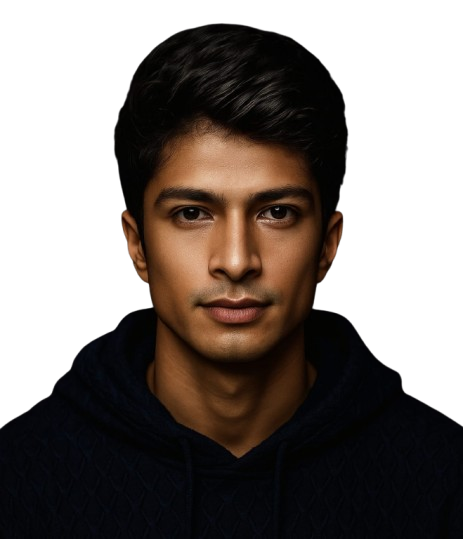
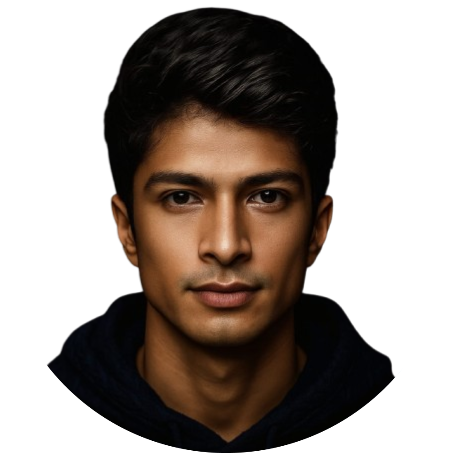
Updated 31-08-2025

diff --git a/src/styles/Skills.css b/src/styles/Skills.css
@@ -1,0 +1,260 @@
+#SkillContainer {
+    height: 600px;
+    width: 100%;
+    background-color: black;
+    display: flex;
+    justify-content: space-between;
+    align-items: center;
+}
+
+#InfoSkill {
+    background-color: black;
+    height: 100%;
+    width: 30%;
+    position: relative;
+}
+
+#InfoSkill h2 {
+    background-color: red;
+    display: inline-block;
+    font-size: 2.5em;
+    padding: 15px 30px;
+    border-radius: 20px;
+    width: 60%;
+    letter-spacing: 5px;
+    text-align: center;
+    position: absolute;
+    left: 15%;
+}
+
+#InfoSkill span:nth-child(1) {
+    background-color: red;
+    position: absolute;
+    display: inline-block;
+    height: 98%;
+    width: 5px;
+    left: 40%;
+}
+#InfoSkill span:nth-child(1) .dot {
+    background-color: red;
+    position: absolute;
+    display: inline-block;
+    height: 5%;
+    width: 615%;
+    border-radius: 50%;
+    left: -250%;
+    bottom: 0;
+}
+
+#InfoSkill .link {
+    background-color: white;
+    display: block;
+    height: 4vw;
+    width: 50%;
+    text-align: center;
+    text-decoration: none;
+    color: black;
+    align-content: center;
+    position: absolute;
+    font-weight: bold;
+    letter-spacing: 3px;
+    font-size: 1.3em;
+    border-radius: 0 40px 40px 0;
+    z-index: 2;
+    background-color: red;
+}
+
+#InfoSkill .link:nth-child(3) {
+    top: 30%;
+    left: 40%;
+}
+#InfoSkill .link:nth-child(4) {
+    top: 50%;
+    left: 40%;
+}
+#InfoSkill .link:nth-child(5) {
+    top: 70%;
+    left: 40%;
+}
+
+#InfoSkill .link_1:hover {
+    background: linear-gradient(to left, cyan, cyan, cyan, transparent);
+    color: black;
+}
+#InfoSkill .link_2:hover {
+    background: linear-gradient(to left, blue, blue, blue, transparent);
+    color: white;
+}
+#InfoSkill .link_3:hover {
+    background: linear-gradient(to left, purple, purple, purple, transparent);
+    color: white;
+}
+
+
+#InfoSkill span:nth-child(6), 
+#InfoSkill span:nth-child(7),
+#InfoSkill span:nth-child(8) {
+    position: absolute;
+    display: inline-block;
+    height: 7.5vw;
+    width: 25%;
+    left: 70%;
+    background-color: transparent;
+    border: 4px solid red;
+    border-radius: 50%;
+    z-index: 1;
+    animation: RotateAvngers 5s linear infinite;
+    animation-play-state: paused;
+}
+
+#InfoSkill .link_1:hover ~ span:nth-child(6), 
+#InfoSkill .link_2:hover ~ span:nth-child(7),
+#InfoSkill .link_3:hover ~ span:nth-child(8) {
+    animation: RotateAvngers 5s linear infinite;
+    animation-play-state: running;
+}
+
+@keyframes RotateAvngers {
+    0% {
+        transform: rotate(0);
+    }
+    100% {
+        transform: rotate(360deg);
+    }
+}
+
+#InfoSkill span:nth-child(6) {
+    border-color: cyan;
+}
+#InfoSkill span:nth-child(7) {
+    border-color: blue;
+}
+#InfoSkill span:nth-child(8) {
+    border-color: purple;
+}
+
+#InfoSkill span:nth-child(6) .dot,
+#InfoSkill span:nth-child(7) .dot,
+#InfoSkill span:nth-child(8) .dot {
+    position: absolute;
+    height: 25%;
+    width: 25%;
+    top: 40%;
+    left: -15%;
+    border-radius: 50%;
+    transform: rotate(90deg);
+}
+
+#InfoSkill span:nth-child(6) .dot {
+    background-color: black;
+    border: 2px solid cyan;
+    border-top: none;
+    border-bottom: none;
+}
+#InfoSkill span:nth-child(7) .dot {
+    background-color: black;
+    border: 2px solid blue;
+    border-top: none;
+    border-bottom: none;
+}
+#InfoSkill span:nth-child(8) .dot {
+    background-color: black;
+    border: 2px solid purple;
+    border-top: none;
+    border-bottom: none;
+}
+
+#InfoSkill span:nth-child(6) {
+    top: 25.5%;
+}
+#InfoSkill span:nth-child(7) {
+    top: 45.5%;
+}
+#InfoSkill span:nth-child(8) {
+    top: 65.5%;
+}
+
+
+
+#DisplayInfoSkill {
+    background-color: green;
+    height: 95%;
+    width: 66%;
+    margin-right: 2%;
+    border-radius: 10px;
+}
+
+
+
+@media (max-width: 768px) {
+    #SkillContainer {
+        height: 800px;
+        flex-direction: column;
+    }
+
+    #InfoSkill {
+        width: 95%;
+        height: 200px;
+        display: flex;
+        justify-content: space-evenly;
+        align-items: flex-end;
+    }
+
+    #InfoSkill h2 {
+        all: initial;
+        position: absolute;
+        color: black;
+        background: linear-gradient(to right, transparent, red, transparent);
+        border-radius: 10px;
+        padding: 10px 5px;
+        font-weight: bold;
+        letter-spacing: 8px;
+        top: 5%;
+        width: 100%;
+        text-align: center;
+        font-size: 2em;
+    }
+
+    #InfoSkill .link {
+        all: initial;
+        background-color: red;
+        height: 40px;
+        width: 100px;
+        font-size: 0.8em;
+        text-align: center;
+        font-weight: bold;
+        border-radius: 10px;
+        align-content: center;
+        letter-spacing: 1px;
+        margin-bottom: 20px;
+    }
+
+    #InfoSkill .link_1:hover {
+        background: linear-gradient(to left, cyan, cyan, cyan, cyan);
+        color: black;
+    }
+    #InfoSkill .link_2:hover {
+        background: linear-gradient(to left, cyan, cyan, cyan, cyan);
+        color: black;
+    }
+    #InfoSkill .link_3:hover {
+        background: linear-gradient(to left, cyan, cyan, cyan, cyan);
+        color: black;
+    }
+
+    #InfoSkill span:nth-child(6), 
+    #InfoSkill span:nth-child(7),
+    #InfoSkill span:nth-child(8) {
+        display: none;
+    }
+
+    #InfoSkill span:nth-child(1) {
+        display: none;
+    }
+
+    #DisplayInfoSkill {
+        height: 95%;
+        width: 95%;
+    }
+}
+

diff --git a/src/components/Skills.js b/src/components/Skills.js
@@ -1,0 +1,65 @@
+import '../styles/Skills.css'
+import {Routes, Route, Link } from "react-router-dom";
+
+
+function Basic(){
+    return (
+        <>
+            <h1>Basic</h1>
+        </>
+    )
+}
+function Intermediate(){
+    return (
+        <>
+            <h1>Intermediate</h1>
+        </>
+    )
+}
+function Advanced(){
+    return (
+        <>
+            <h1>Advanced</h1>
+        </>
+    )
+}
+
+function Skills(){
+    return (
+        <>
+            <section id='SkillContainer'>
+
+                <div id="InfoSkill">
+                    <span>
+                        <span className='dot'></span>
+                    </span>
+                    <h2>SKILL's</h2>
+                    <Link to="basic" className='link_1 link'>Basic</Link>
+                    <Link to="inter" className='link_2 link'>Intermediate</Link>
+                    <Link to="adv" className='link_3 link'>Advanced</Link>
+
+                    <span>
+                        <span className="dot"></span>
+                    </span>
+                    <span>
+                        <span className="dot"></span>
+                    </span>
+                    <span>
+                        <span className="dot"></span>
+                    </span>
+                </div>
+
+                <div id="DisplayInfoSkill">
+                    <Routes>
+                        <Route path='basic' element={<Basic/>}/>
+                        <Route path='inter' element={<Intermediate/>}/>
+                        <Route path='adv' element={<Advanced/>}/>
+                    </Routes>
+                </div>
+
+            </section>
+        </>
+    )
+}
+
+export default Skills;

diff --git a/src/App.js b/src/App.js
@@ -4,6 +4,7 @@ import Header from './components/Header';
 import Footer from './components/Footer';
 import AboutSec from './components/AboutSec';
 import AboutDetailed from './components/AboutDetailed';
+import Skills from './components/Skills';
 
 function App() {
   return (
@@ -11,6 +12,7 @@ function App() {
       <Header/>
       <AboutSec/>
       <AboutDetailed/>
+      <Skills/>
       <Footer/>
     </Router>
   );

diff --git a/src/styles/AboutSec.css b/src/styles/AboutSec.css
@@ -224,9 +224,9 @@
 
 .AbContainer_2 img:nth-child(3) {
   position: absolute;
-  bottom: -35%;
+  bottom: -15%;
   transform: scale(1.2);
-  height: 110%;
+  height: 95%;
 }
 
 /*Responsiveness*/

diff --git a/src/styles/AboutDetailed.css b/src/styles/AboutDetailed.css
@@ -37,6 +37,7 @@
 #AboutDetailed div p {
   font-size: 1.5rem;
   text-align: justify;
+  color: black;
 }
 
 #AboutDetailed div p span {
